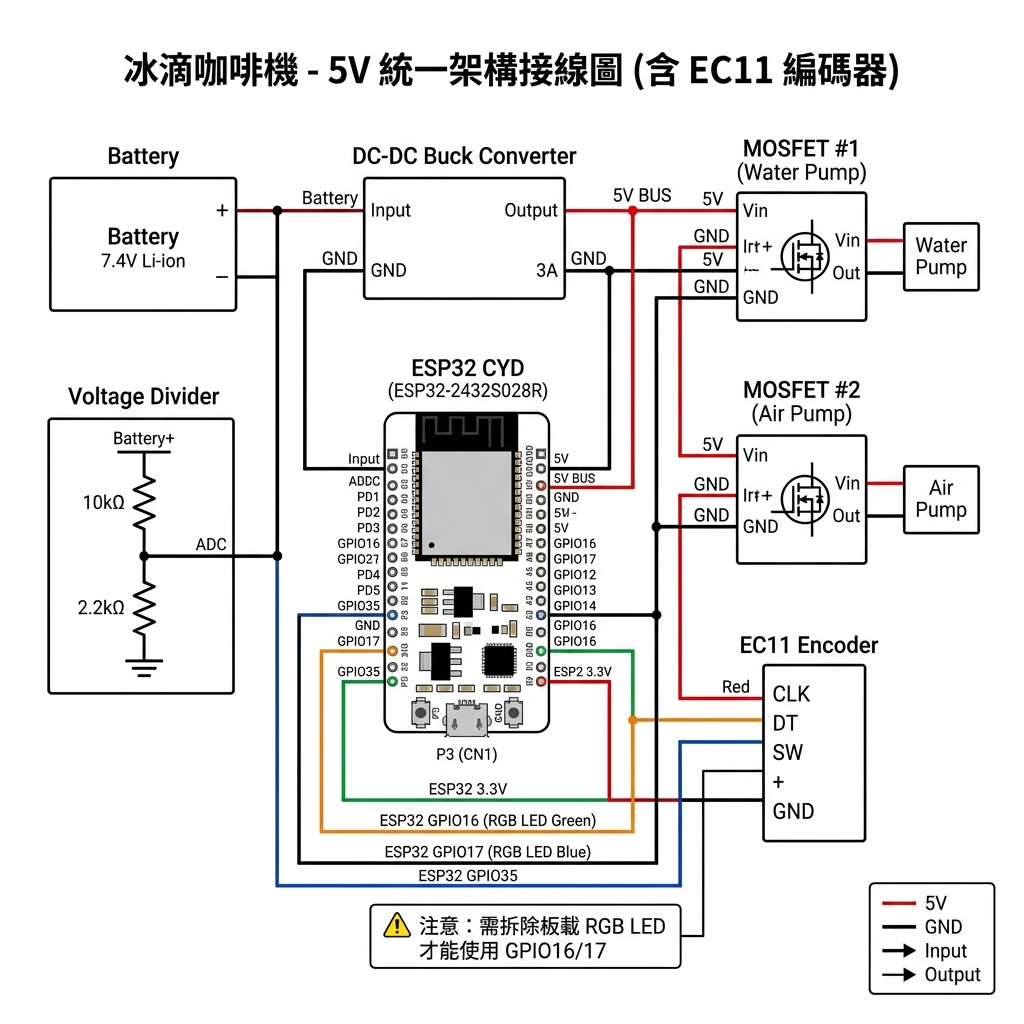
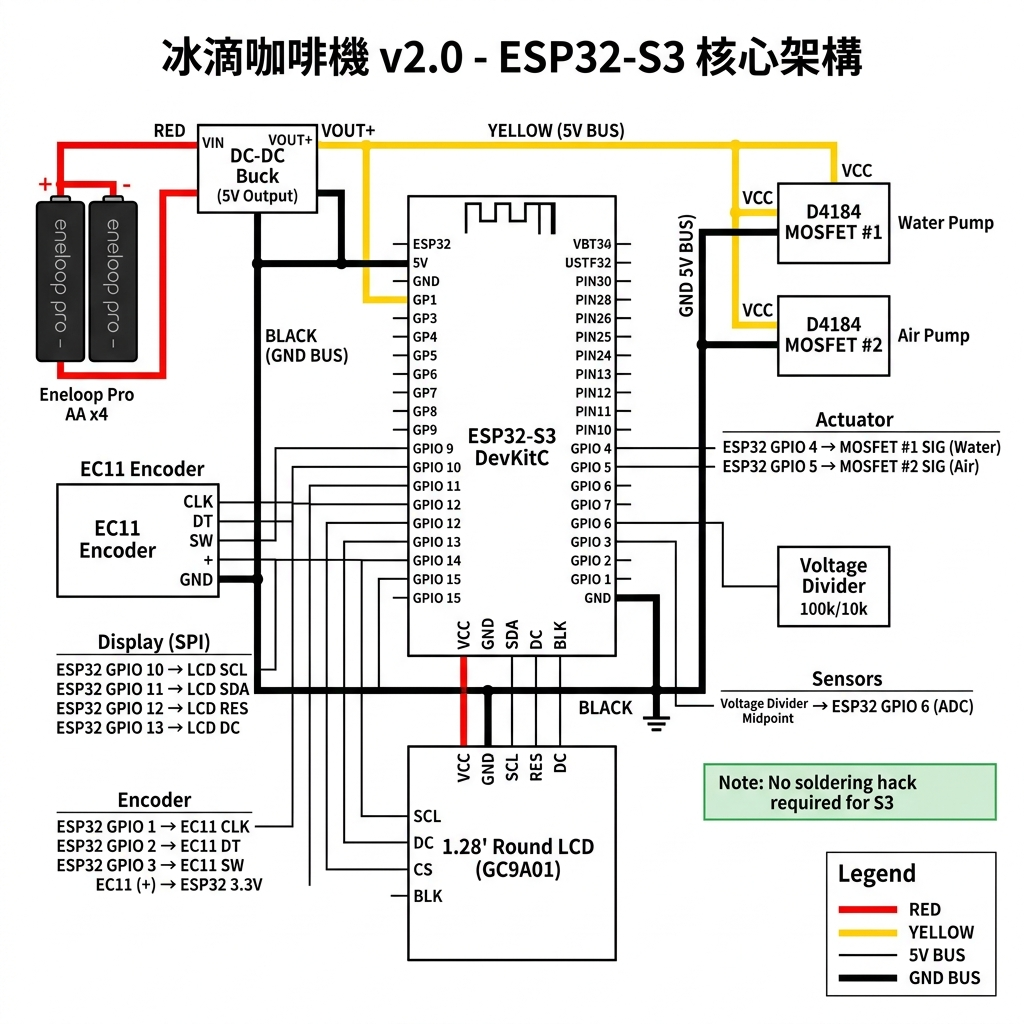
upgrade: 系統升級至 v2.0 (ESP32-S3 + 1.28吋圓形LCD + EC11)

Changed region(s): [[0.0312, 0.0312, 1.0, 1.0]]

diff --git a/src/Config.h b/src/Config.h
@@ -2,70 +2,62 @@
 #define CONFIG_H
 
 // ============================================================
-// 冰滴咖啡機控制器 - 硬體與參數配置
-// ESP32-CYD (ESP32-2432S028)
+// 冰滴咖啡機控制器 - 硬體與參數配置 (v2.0)
+// 硬體平台: ESP32-S3 DevKitC
+// 顯示器: 1.28" 圓形 LCD (GC9A01) - SPI 介面
+// 互動: EC11 旋轉編碼器 (完整接線，不需硬體改裝)
 // 全 5V 統一架構 (無升壓模組)
 // ============================================================
 
+// --- 顯示器配置 (GC9A01 SPI) ---
+#define LCD_SCL_PIN         10      // SPI SCK
+#define LCD_SDA_PIN         11      // SPI MOSI
+#define LCD_RES_PIN         12      // Reset
+#define LCD_DC_PIN          13      // Data/Command
+#define LCD_CS_PIN          14      // Chip Select
+#define LCD_BLK_PIN         15      // Backlight Control
+
 // --- 水泵控制 (Kamoer NKP 6V via D4184 MOSFET) ---
-// 6V 額定蠕動幫浦，5V 供電下流量約降 15-20%
-// CYD 可用 GPIO: 27, 22 (未被螢幕/觸控佔用)
-#define PUMP_PIN            27      // D4184 MOSFET #1 訊號腳位 (水泵)
+#define PUMP_PIN            4       // D4184 MOSFET #1
 
 // --- 氣泵控制 (5V Air Pump via D4184 MOSFET #2) ---
-#define AIR_PUMP_PIN        22      // D4184 MOSFET #2 訊號腳位 (氣泵)
-#define AIR_PURGE_DURATION_MS 30000 // Air Purge 持續時間 (毫秒, 預設 30 秒)
-#define AIR_PURGE_ENABLED   true    // 萃取完成後自動執行 Air Purge
+#define AIR_PUMP_PIN        5       // D4184 MOSFET #2
+#define AIR_PURGE_DURATION_MS 30000 // Air Purge 持續時間
+#define AIR_PURGE_ENABLED   true
 
 // --- EC11 旋轉編碼器 ---
-// 需拆除 CYD 板上 RGB LED 以釋放 GPIO16/GPIO17
-// GPIO35 為 input-only，適合做按鈕輸入
-#define ENCODER_CLK_PIN     16      // EC11 CLK (Phase A) - 原 RGB LED Green
-#define ENCODER_DT_PIN      17      // EC11 DT  (Phase B) - 原 RGB LED Blue
-#define ENCODER_SW_PIN      35      // EC11 SW  (按鈕) - 共用 ADC 腳位 (input-only)
-#define ENCODER_DEBOUNCE_MS 5       // 編碼器消抖時間 (毫秒)
+// S3 具備充足腳位，可使用具備內部拉高的 GPIO
+#define ENCODER_CLK_PIN     1       // EC11 CLK
+#define ENCODER_DT_PIN      2       // EC11 DT
+#define ENCODER_SW_PIN      3       // EC11 SW (按鈕)
+#define ENCODER_DEBOUNCE_MS 5
 
 // --- 電源架構 ---
 // 電池: Eneloop Pro AA x4 (串聯 4.8~5.8V)
-// 降壓: DC-DC 降壓模組 → 穩定 5V
-// 供電: 5V → ESP32 CYD + 水泵 (D4184 #1) + 氣泵 (D4184 #2)
-// 注意: 不需要升壓模組，所有元件統一 5V 供電
+// 降壓: DC-DC 降壓模組 → 穩定 5V 供應所有元件
 
 // --- 電量監測 (分壓電阻: 100kΩ / 10kΩ) ---
-// ADC 腳位: GPIO35 (ADC1_CH7, 僅輸入, 與 EC11 SW 共用)
-// 透過軟體切換讀取模式: 平時讀電壓，按下時讀按鈕
-#define BATTERY_ADC_PIN     35
-#define VOLTAGE_DIVIDER_R1  100000.0f  // 上臂電阻 100kΩ
-#define VOLTAGE_DIVIDER_R2  10000.0f   // 下臂電阻 10kΩ
-#define ADC_REF_VOLTAGE     3.3f       // ESP32 ADC 參考電壓
-#define ADC_RESOLUTION      4095.0f    // 12-bit ADC
+#define BATTERY_ADC_PIN     6       // S3 ADC1_CH5
+#define VOLTAGE_DIVIDER_R1  100000.0f
+#define VOLTAGE_DIVIDER_R2  10000.0f
+#define ADC_REF_VOLTAGE     3.3f
+#define ADC_RESOLUTION      4095.0f
 
-// --- 電池參數 (4x Eneloop Pro AA) ---
-// 滿電: 4x1.45V = 5.8V, 標稱: 4x1.2V = 4.8V
-#define BATTERY_FULL_V      5.8f    // 滿電電壓
-#define BATTERY_NOMINAL_V   4.8f    // 標稱電壓
-#define BATTERY_LOW_V       4.4f    // 低電量警告
-#define BATTERY_CUTOFF_V    4.0f    // 自動停機保護電壓
+// --- 電池參數 ---
+#define BATTERY_FULL_V      5.8f
+#define BATTERY_NOMINAL_V   4.8f
+#define BATTERY_LOW_V       4.4f
+#define BATTERY_CUTOFF_V    4.0f
 
 // --- 冰滴控制參數 ---
-#define TARGET_VOLUME_ML    600     // 目標萃取量 (ml)
-#define TARGET_TIME_HOURS   6       // 目標萃取時間 (小時)
-#define DRIP_INTERVAL_SEC   60      // 滴灌間隔 (秒)
-#define PUMP_ON_DURATION_MS 2500    // 每次幫浦啟動時間 (毫秒, 5V 流量補償)
+#define TARGET_VOLUME_ML    600
+#define TARGET_TIME_HOURS   6
+#define DRIP_INTERVAL_SEC   60
+#define PUMP_ON_DURATION_MS 2500
+#define FLOW_RATE_ML_PER_CYCLE  1.67f
 
-// 計算流量: 6V 泵在 5V 下流量約降 20%, 延長 ON 時間補償
-// 每次 ~1.67ml, 每分鐘一次
-// 6hr = 360次 x 1.67ml ≈ 600ml
-#define FLOW_RATE_ML_PER_CYCLE  1.67f  // 每週期流量 (ml, 校準後調整)
-
-// --- 顯示更新頻率 ---
-#define DISPLAY_REFRESH_MS  1000    // 畫面更新間隔 (毫秒)
-#define BATTERY_READ_MS     5000    // 電壓讀取間隔 (毫秒)
-
-// --- 觸控校準 (CYD 預設值) ---
-#define TOUCH_X_MIN     3550
-#define TOUCH_X_MAX     350
-#define TOUCH_Y_MIN     3750
-#define TOUCH_Y_MAX     350
+// --- 更新頻率 ---
+#define DISPLAY_REFRESH_MS  500     // S3 效能較佳，可提高更新頻率
+#define BATTERY_READ_MS     5000
 
 #endif

diff --git a/README.md b/README.md
@@ -1,7 +1,7 @@
-# ☕ 冰滴咖啡機控制器 (Cold Drip Coffee Controller)
+# ☕ 冰滴咖啡機控制器 (Cold Drip Coffee Controller) v2.0
 
-> ESP32-CYD 驅動的 600ml / 6小時自動化冰滴咖啡系統
-> **全 5V 統一架構** — 無需升壓模組，電路精簡可靠
+> **ESP32-S3 驅動** ｜ 1.28" 圓形 LCD ｜ 實體旋鈕操作
+> **全 5V 統一架構** — 無需升壓模組，電路精簡可靠，腳位充足不需改裝。
 
 ## 📋 專案概述
 
@@ -9,18 +9,20 @@
 |------|------|
 | **目標產量** | 600ml / 6小時 |
 | **配置** | 左右並列雙槽結構（右側入水、左側萃取） |
-| **控制器** | ESP32 CYD (ESP32-2432S028) |
-| **電源架構** | 全 5V 統一供電（無升壓模組） |
-| **運作模式** | 完全離線，無需 WiFi |
-| **核心邏輯** | 間歇滴灌（預設每 60 秒啟動 2.5 秒） |
-| **完成後處理** | 自動 Air Purge 吹氣清掃管路 (30 秒) |
+| **控制器** | **ESP32-S3 DevKitC** |
+| **顯示器** | **1.28" 圓形 LCD (GC9A01)** |
+| **互動介面** | **EC11 旋轉編碼器 (實體控制)** |
+| **電源架構** | 全 5V 統一供電 |
+| **核心邏輯** | 間歇滴灌 + 自動 Air Purge |
 
 ## 🔧 BOM 表 (物料清單)
 
 | 類別 | 項目規格 | 用途 |
 |------|----------|------|
-| 控制器 | ESP32 CYD (ESP32-2432S028) | 系統大腦與資訊顯示 (5V) |
-| 水泵 | Kamoer NKP 蠕動幫浦 (**6V** / BPT管) | 精準抽水，5V 供電可運作 |
+| 控制器 | **ESP32-S3 DevKitC-1** | 系統核心 (建議 N8R8 或 N16R8) |
+| 顯示器 | **1.28" 圓形 LCD (GC9A01)** | 圓形介面資訊顯示 |
+| 旋鈕 | **EC11 旋轉編碼器** | 核心控制與參數調整 |
+| 水泵 | Kamoer NKP 蠕動幫浦 (**6V**) | 抽水動力 (5V 供電) |
 | 氣泵 | **5V** 小型 Air Pump | 萃取後 Air Purge 吹氣清掃 |
 | 電源 | Eneloop Pro AA 電池 x 4 (串聯) | 穩定、耐低溫電力來源 (4.8~5.8V) |
 | 降壓件 | DC-DC 降壓模組 (降至 **5V**) | 統一供應所有元件 |
@@ -41,15 +43,22 @@
 
 ### GPIO 分配
 
-| GPIO | 功能 | 方向 | 接往 |
+| GPIO | 功能 | 介面 | 接往 |
 |------|------|------|------|
-| **GPIO27** | 水泵控制 | OUTPUT | D4184 MOSFET #1 SIG |
-| **GPIO22** | 氣泵控制 (Air Pump) | OUTPUT | D4184 MOSFET #2 SIG |
-| **GPIO16** | Encoder CLK | INPUT | EC11 CLK (需拆除 RGB LED Green) |
-| **GPIO17** | Encoder DT | INPUT | EC11 DT (需拆除 RGB LED Blue) |
-| **GPIO35** | 電壓監測 / Encoder SW | INPUT | 分壓電阻點 / EC11 按鈕 (共用) |
-| 5V | 電源輸入 | - | DC-DC 降壓 VOUT+ |
-| GND | 共地 | - | 所有模組共地匯流排 |
+| **GPIO 1** | Encoder CLK | INPUT | EC11 CLK |
+| **GPIO 2** | Encoder DT | INPUT | EC11 DT |
+| **GPIO 3** | Encoder SW | INPUT | EC11 SW (按鈕) |
+| **GPIO 4** | 水泵控制 | OUTPUT | D4184 #1 SIG |
+| **GPIO 5** | 氣泵控制 | OUTPUT | D4184 #2 SIG |
+| **GPIO 6** | 電壓監測 | ADC | 分壓電阻中點 |
+| **GPIO 10** | LCD SCL | SPI SCK | GC9A01 SCL |
+| **GPIO 11** | LCD SDA | SPI MOSI | GC9A01 SDA |
+| **GPIO 12** | LCD RES | RESET | GC9A01 RES |
+| **GPIO 13** | LCD DC | DATA/CMD | GC9A01 DC |
+| **GPIO 14** | LCD CS | CHIP SEL | GC9A01 CS |
+| **GPIO 15** | LCD BLK | BACKLIGHT | GC9A01 BLK |
+| 5V | 電源輸入 | Power | DC-DC VOUT+ |
+| GND | 共地 | GND | 所有模組共地 |
 
 ### 接線重點 — 5V 統一架構
 
@@ -65,29 +74,29 @@ ESP32 GPIO22 → D4184 #2 SIG (氣泵開關)
 所有 GND 統一接至共地匯流排
 ```
 
-### 逐線接線對照表
+### 逐線接線對照表 (v2.0)
 
 | # | 線色 | 起點 | 終點 | 用途 |
 |---|------|------|------|------|
-| 1 | 🔴 紅 | 電池 (+) | DC-DC VIN+ | 電池正極輸入 |
-| 2 | ⚫ 黑 | 電池 (-) | DC-DC VIN- | 電池負極/接地 |
-| 3 | 🟡 黃 | DC-DC VOUT+ | ESP32 5V | 5V 供電 (匯流排) |
-| 4 | 🟡 黃 | DC-DC VOUT+ | D4184 #1 VCC | 5V 供電 (匯流排) |
-| 5 | 🟡 黃 | DC-DC VOUT+ | D4184 #2 VCC | 5V 供電 (匯流排) |
-| 6 | ⚫ 黑 | DC-DC VOUT- | ESP32 GND | GND (匯流排) |
-| 7 | ⚫ 黑 | DC-DC VOUT- | D4184 #1 GND | GND (匯流排) |
-| 8 | ⚫ 黑 | DC-DC VOUT- | D4184 #2 GND | GND (匯流排) |
-| 9 | 🟢 綠 | ESP32 GPIO27 | D4184 #1 SIG | 水泵控制訊號 |
-| 10 | 🟠 橙 | ESP32 GPIO22 | D4184 #2 SIG | 氣泵控制訊號 |
-| 11 | 🔵 藍 | 分壓電阻中點 | ESP32 GPIO35 | 電壓偵測 / 按鈕 (共用) |
-| 12 | 🟢 綠 | ESP32 GPIO16 | EC11 CLK | 編碼器 CLK (solder to LED pad) |
-| 13 | 🟠 橙 | ESP32 GPIO17 | EC11 DT | 編碼器 DT (solder to LED pad) |
-| 14 | 🟣 紫 | D4184 #1 M+ | Kamoer NKP (+) | 水泵馬達正極 |
-| 15 | 🟣 紫 | D4184 #1 M- | Kamoer NKP (-) | 水泵馬達負極 |
-| 16 | 🟣 紫 | D4184 #2 M+ | Air Pump (+) | 氣泵馬達正極 |
-| 17 | 🟣 紫 | D4184 #2 M- | Air Pump (-) | 氣泵馬達負極 |
+| 1 | 🔴 | 電池 (+) | DC-DC VIN+ | 電池正極輸入 |
+| 2 | ⚫ | 電池 (-) | DC-DC VIN- | 電池負極接地 |
+| 3 | 🟡 | DC-DC VOUT+ | ESP32-S3 5V | 系統 5V 供電 |
+| 4 | 🟡 | DC-DC VOUT+ | D4184 #1 VCC | 水泵動力電源 |
+| 5 | 🟡 | DC-DC VOUT+ | D4184 #2 VCC | 氣泵動力電源 |
+| 6 | ⚫ | DC-DC VOUT- | GND BUS | 所有 GND 匯流 |
+| 7 | 🔵 | 分壓中點 | GPIO 6 | 電池電壓 ADC |
+| 8 | 🟢 | GPIO 1 | EC11 CLK | 編碼器訊號 A |
+| 9 | 🟠 | GPIO 2 | EC11 DT | 編碼器訊號 B |
+| 10| ⚪ | GPIO 3 | EC11 SW | 編碼器按鈕 |
+| 11| 🔴 | ESP32 3.3V | EC11 (+) | 編碼器電源 |
+| 12| 🟣 | GPIO 4 | D4184 #1 SIG | 水泵控制訊號 |
+| 13| 🟣 | GPIO 5 | D4184 #2 SIG | 氣泵控制訊號 |
+| 14| 🌊 | GPIO 10-14 | LCD SPI | 圓形螢幕數據線 |
+| 15| ⚡ | ESP32 3.3V | LCD VCC | 螢幕電源 |
+| 16| 🟣 | D4184 M± | 水泵馬達 | 水泵驅動 |
+| 17| 🟣 | D4184 M± | 氣泵馬達 | 氣泵驅動 |
 
-> ⚠️ **硬體改裝提示**：為了釋放 GPIO16/17 給編碼器使用，必須拆除 CYD 板子背面的 RGB LED。GPIO35 同時負責電壓監測與編碼器按鈕，按鈕按下時會將電壓拉至 0V。
+> 💡 **v2.0 改進**：採用 ESP32-S3 後，腳位充足，不再需要任何硬體拆除或共用腳位的改裝。所有線路均有獨立對應腳位。
 
 > 💡 **不需要 MT3608 升壓模組！** 所有動力元件統一由 5V 降壓輸出供電。
 

diff --git a/docs/mechanical_design.md b/docs/mechanical_design.md
@@ -1,6 +1,6 @@
-# 📐 冰滴咖啡機 - 機構設計與零件尺寸 v4
+# 📐 冰滴咖啡機 - 機構設計與零件尺寸 v5 (v2.0 硬體)
 
-> 粉槽左移至萃取區正上方 ｜ 佈水器均勻佈水 ｜ 三通+單向閥×3 ｜ **新增 EC11 旋轉編碼器**
+> **ESP32-S3 核心** ｜ **1.28" 圓形 LCD** ｜ 佈水器均勻佈水 ｜ 三通+單向閥×3
 
 ---
 
@@ -10,7 +10,8 @@
 
 | 零件 | 尺寸 (LxWxH mm) | 重量 | 備註 |
 |------|-----------------|------|------|
-| ESP32 CYD (ESP32-2432S028) | 86 × 50 × 13.5 | ~30g | 含 2.8 吋 TFT 觸控螢幕 |
+| ESP32-S3 DevKitC | 70 × 28 × 12 | ~15g | 雙排針封裝 |
+| 1.28" 圓形 LCD (GC9A01) | ⌀38 × 12 | ~10g | 顯示區域 ⌀32.4mm |
 | Kamoer NKP 6V 蠕動幫浦 | 67 × 55 × 41 | ~110g | 含 L 型支架，3 rotor |
 | 5V Air Pump 微型氣泵 | 30 × 30 × 30 | ~25g | 依廠牌有差異 |
 | D4184 MOSFET 模組 × 2 | 23 × 16 × 10 | ~3g/個 | 小型封裝 |
@@ -149,17 +150,17 @@ graph TD
 ```
 ← ─ ─ ─ ─ ─ ─ ─ ─ 180mm ─ ─ ─ ─ ─ ─ ─ ─ →
 ┌──────────┬───────────┬──────────┬─────────┐ ─┐
-│ 電池座    │ ESP32 CYD │ Kamoer   │ Air Pump│  │
-│ 62×57    │ 86×50     │ NKP      │ EC11    │  │
-│          │ ┌──────┐  │ 67×55    │─────────│  │ 80mm
-│ [四顆AA] │ │ TFT  │  │ ○ 泵頭   │D4184 ×2 │  │
-│          │ │ 螢幕  │  │         │ [旋鈕]   │  │
-│          │ └──────┘  │         │  ○      │  │
+│ 電池座    │ ESP32-S3  │ Kamoer   │ Air Pump│  │
+│ 62×57    │ DevKitC   │ NKP      │ EC11    │  │
+│          │           │ 67×55    │─────────│  │ 80mm
+│ [四顆AA] │ [圓形 LCD] │ ○ 泵頭   │D4184 ×2 │  │
+│          │    ○      │         │ [旋鈕]   │  │
+│          │           │         │  ○      │  │
 └──────────┴───────────┴──────────┴─────────┘ ─┘
 ```
 
 > [!TIP]
-> **EC11 旋鈕配置在最右側**，方便單手握住頂部模組時，用大拇指進行快速旋轉調整。其按鈕功能與觸控螢幕互補。
+> **圓形 LCD 與 EC11 旋鈕** 的組合能營造出類似高階磨豆機或義式機的控制美感。S3 的窄長體積也有利於在狹小的控制盒空間內佈線。
 
 ---
 